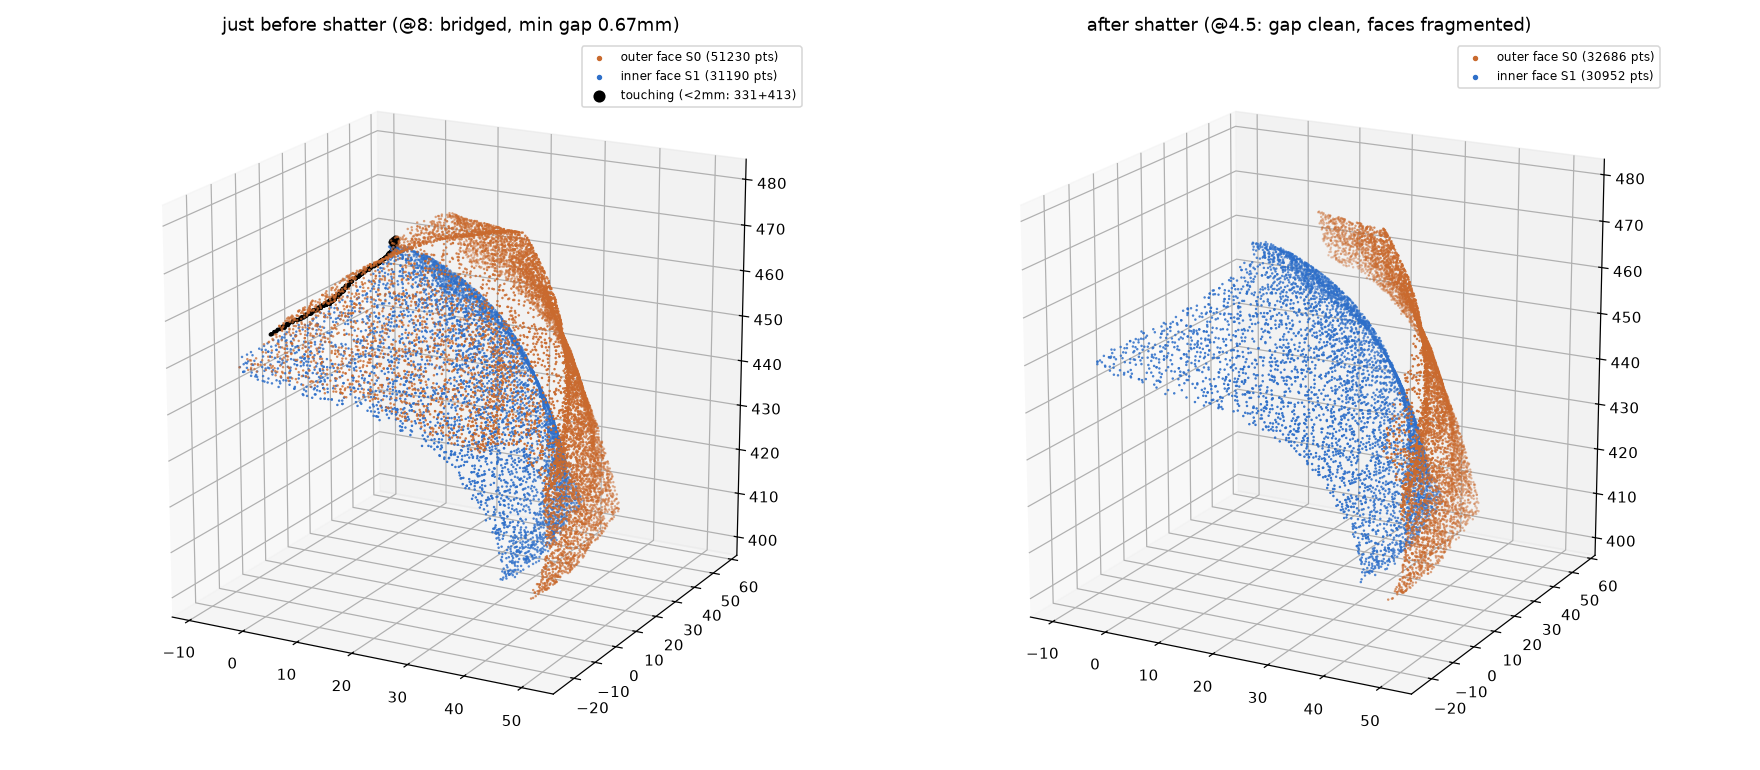
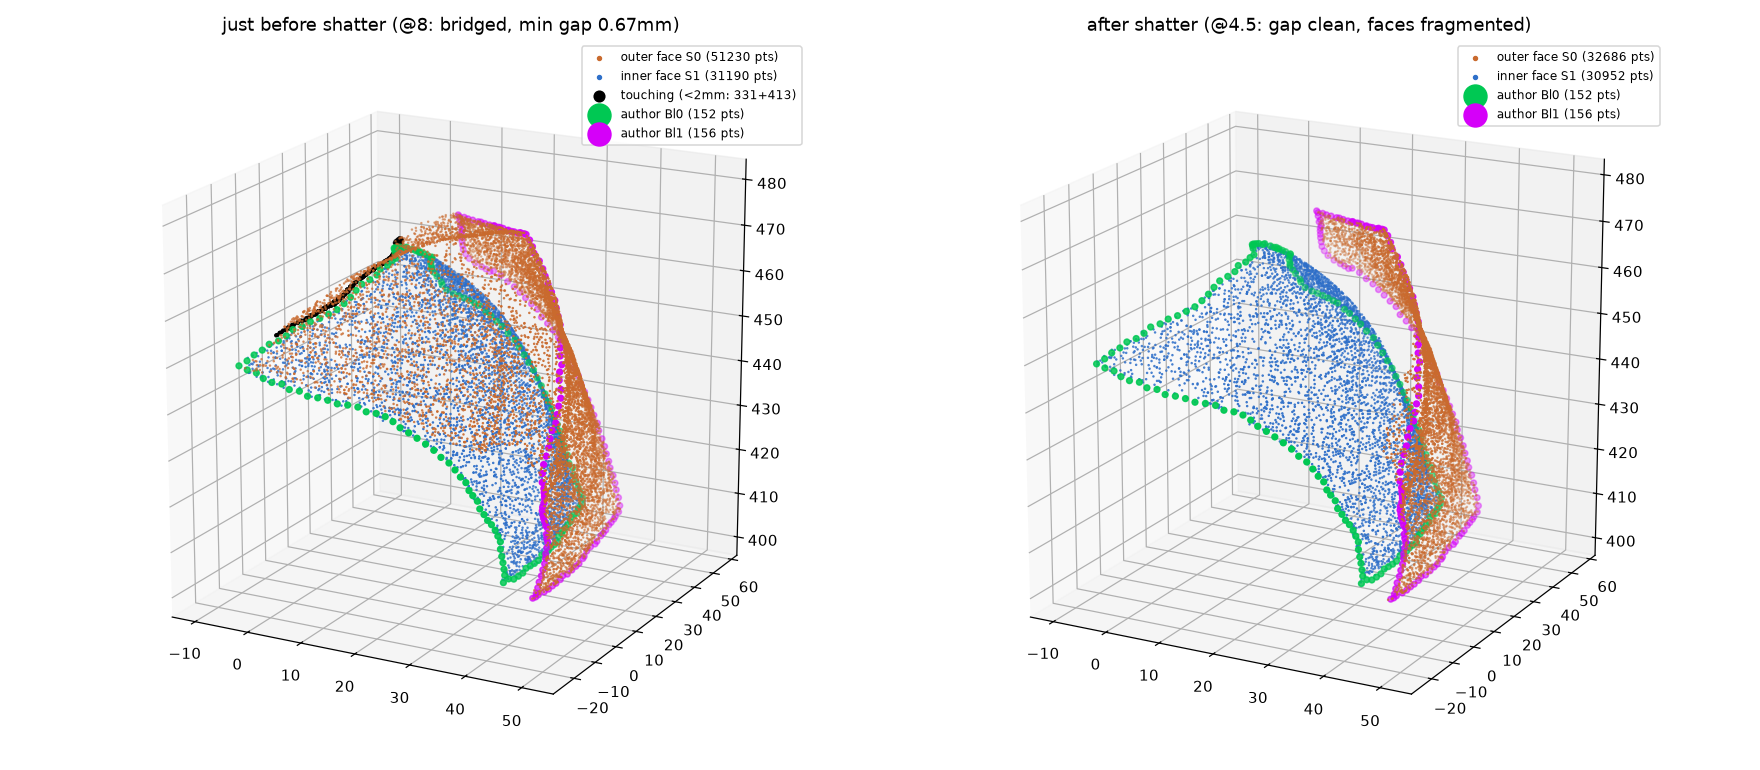
Overlay P12 author lanes on before/after-shatter picture

diff --git a/.scratch/pota222/p12/render_before_after.py b/.scratch/pota222/p12/render_before_after.py
@@ -15,7 +15,24 @@ def load(p):
                 except ValueError: pass
     return np.array(d)
 
+def loadpcd(p):
+    d = []
+    with open(p) as f:
+        data = False
+        for ln in f:
+            if data:
+                s = ln.split()
+                if len(s) >= 3:
+                    try: d.append([float(x) for x in s[:3]])
+                    except ValueError: pass
+            elif ln.startswith('DATA'):
+                data = True
+    return np.array(d)
+
 D = 'C:/PR/SfSpp_preprocessing/.scratch/pota222/p12/'
+a0 = loadpcd(D + 'auth_Bl0.pcd')
+a1 = loadpcd(D + 'auth_Bl1.pcd')
+print('author', len(a0), len(a1), flush=True)
 fig = plt.figure(figsize=(16, 7))
 for i, (tag, t) in enumerate([('at8', 'just before shatter (@8: bridged, min gap 0.67mm)'), ('at4p5', 'after shatter (@4.5: gap clean, faces fragmented)')]):
     s0 = load(D + 'p12_S0_%s.xyz' % tag)
@@ -28,6 +45,8 @@ for i, (tag, t) in enumerate([('at8', 'just before shatter (@8: bridged, min gap
     ax.scatter(s0[::6, 0], s0[::6, 1], s0[::6, 2], s=0.4, c='#c96a2e', label='outer face S0 (%d pts)' % len(s0))
     ax.scatter(s1[::6, 0], s1[::6, 1], s1[::6, 2], s=0.4, c='#2e6fc9', label='inner face S1 (%d pts)' % len(s1))
     if len(c0): ax.scatter(c0[:, 0], c0[:, 1], c0[:, 2], s=3, c='k', label='touching (<2mm: %d+%d)' % (len(c0), len(c1)))
+    ax.scatter(a0[:, 0], a0[:, 1], a0[:, 2], s=14, c='#00c853', label='author Bl0 (%d pts)' % len(a0))
+    ax.scatter(a1[:, 0], a1[:, 1], a1[:, 2], s=14, c='#d500f9', label='author Bl1 (%d pts)' % len(a1))
     ax.set_title(t)
     ax.legend(markerscale=4, fontsize=8)
     ax.view_init(elev=18, azim=-62)
